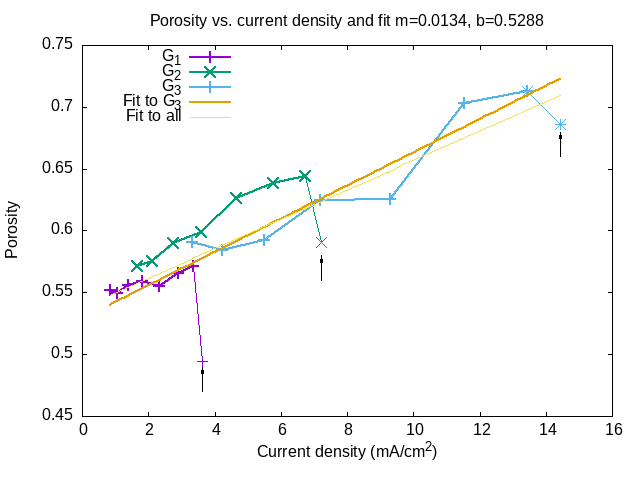
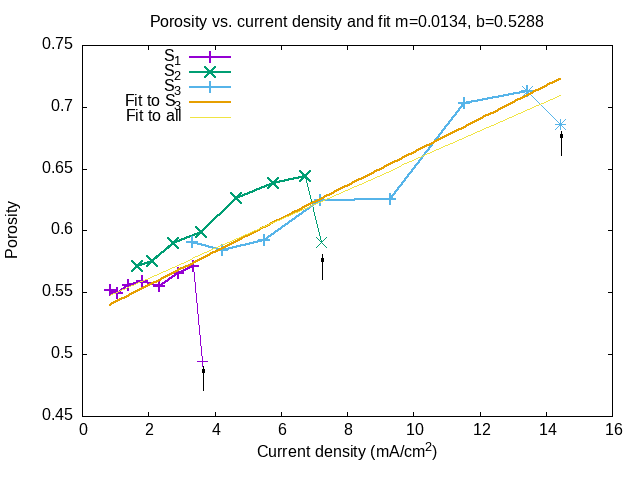
Change G_n->S_n in text and figures

diff --git a/paper.tex b/paper.tex
@@ -600,7 +600,7 @@ platinum wire with a diameter of $0.41\,\text{mm}$ insulated with
 teflon tape, with an uncovered
 tip located at $\bm r_0=(x_0,
 y_0,z_0)=(0.2\,\text{cm},0.74\,\text{cm},0.9\,\text{cm})$.
-We manufactured three samples $G_1$, $G_2$ and $G_3$ by applying a
+We manufactured three samples $S_1$, $S_2$ and $S_3$ by applying a
 current $I_1=5\,\text{mA}$, $I_2=10\,\text{mA}$ and
 $I_3=20\,\text{mA}$, respectively, during a time of $t=250s$.
 
@@ -687,7 +687,7 @@ the electrode.
 \begin{figure}
  \centering
  \includegraphics[width=\textwidth]{G3I20proc}
-  \caption{ Photograph of sample $G_3$ prepared as described in
+  \caption{ Photograph of sample $S_3$ prepared as described in
     Sec. \ref{sec:fabrication-ps-grin} using the same parameters as
     in Fig. \ref{fig:DR1} with a current $ I_3=20 \text{mA}$,
     during a time $t=250\text{s}$. We indicate the centerline with a
@@ -702,7 +702,7 @@ the electrode.
 \end{figure}
 
 In Fig. \ref{fig:SI3} we show a photograph of one of our samples,
-$G_3$
+$S_3$
 prepared as described in Sec. \ref{sec:fabrication-ps-grin}, with the
 same conditions as those corresponding to Fig.~\ref{fig:DR1} applying
 a current
@@ -752,7 +752,7 @@ Fig. \ref{fig:SI3}.
   \label{t:xj}
 \end{table}
 
-In Fig. \ref{fig:sem} we show some SEM images of the sample $G_3$,
+In Fig. \ref{fig:sem} we show some SEM images of the sample $S_3$,
 including top views and lateral views taken after
 the optical characterization was completed and the sample was cut
 along its centerline (see Sec. \ref{sec:R}) from
@@ -767,7 +767,7 @@ of the sample shown in Fig. \ref{fig:SI3}.
   \includegraphics[width=.3\textwidth]{seme}
   \includegraphics[width=.3\textwidth]{semf}
   \caption{Top ((a), (b), and (c)) and lateral ((d), (e), and (f)) SEM
-    micrographs of the sample $G_3$ taken from a region corresponding to the left
+    micrographs of the sample $S_3$ taken from a region corresponding to the left
     side ((a) and (d)), center ((b) and (e)), and right side ((c) and
     (f)) along the centerline shown in Fig. \ref{fig:SI3}.}
   \label{fig:sem}
@@ -790,7 +790,7 @@ the optical spectra, as explained below.
   \includegraphics[width=\textwidth]{R5vslambda}
   \caption{Reflectance spectra at different positions
     ($x'_n=0.2-1.6\,\text{cm}$, $y=0.74\,\text{cm}$)
-    on sample $G_1$ ($I_1=5\,\text{mA}$). We show
+    on sample $S_1$ ($I_1=5\,\text{mA}$). We show
   experimental results and results fitted through
   equations~\eqref{Eq:ECMR} and \eqref{Eq:Brugg}}.
   \label{fig:R5}
@@ -800,7 +800,7 @@ the optical spectra, as explained below.
   \includegraphics[width=\textwidth]{R10vslambda}
   \caption{Reflectance spectra at different positions
     ($x'_n=0.2-1.6\,\text{cm}$, $y=0.74\,\text{cm}$)
-    on sample $G_2$ ($I_1=10\,\text{mA}$). We show
+    on sample $S_2$ ($I_1=10\,\text{mA}$). We show
   experimental results and results fitted through
   equations~\eqref{Eq:ECMR} and \eqref{Eq:Brugg}}.
   \label{fig:R10}
@@ -811,7 +811,7 @@ the optical spectra, as explained below.
   \includegraphics[width=\textwidth]{R20vslambda}
   \caption{Reflectance spectra at different positions
     ($x'_n=0.2-1.6\,\text{cm}$, $y=0.74\,\text{cm}$)
-    on sample $G_3$ ($I_3=20\,\text{mA}$) (Fig. \ref{fig:SI3}),
+    on sample $S_3$ ($I_3=20\,\text{mA}$) (Fig. \ref{fig:SI3}),
     We show
     experimental results and results fitted through
     equations~\eqref{Eq:ECMR} and \eqref{Eq:Brugg}}.
@@ -819,8 +819,8 @@ the optical spectra, as explained below.
 \end{figure}
 
 We measured the reflectance spectra  at the positions indicated in
-Fig. \ref{fig:SI3} on our three samples $G_1$, $G_2$,
-and $G_3$, prepared using the same procedure
+Fig. \ref{fig:SI3} on our three samples $S_1$, $S_2$,
+and $S_3$, prepared using the same procedure
 (Sec. \ref{sec:fabrication-ps-grin}) but applying different currents
 $I_1=5\,\text{mA}$, $I_2=10\,\text{mA}$, and $I_3=20\,\text{mA}$. The results are shown in
 Figs. \ref{fig:R5}, \ref{fig:R10}, and \ref{fig:R20}.
@@ -856,7 +856,7 @@ showing that the calibration was adequate.
   $I$ (mA) &$x'_n$ (cm)&  $j$ ($\text{mA}/\text{cm}^2$) & $p$
        & $d$ ($\mu\text{m}$) & $s$ & $v$ (nm/s)\\
 \hline
-$G_1$/ 5 &0.2 & 3.61 & 0.494 & 0.340 & 0.849&  1.361 \\
+$S_1$/ 5 &0.2 & 3.61 & 0.494 & 0.340 & 0.849&  1.361 \\
          &0.4 & 3.36 & 0.571 & 0.390 & 0.979&  1.558  \\
          &0.6  & 2.88& 0.566 & 0.331 & 0.957&  1.325 \\
          &0.8 & 2.32 & 0.556 & 0.273 & 0.954&  1.093 \\
@@ -864,7 +864,7 @@ $G_1$/ 5 &0.2 & 3.61 & 0.494 & 0.340 & 0.849&  1.361 \\
          &1.2 & 1.37 & 0.556 & 0.189 & 0.973&  0.754 \\
          &1.4 & 1.06 & 0.549 & 0.151 & 0.961&  0.605 \\
          &1.6 & 0.83 & 0.552 & 0.124 & 0.990&  0.495 \\
-$G_2$/10 &0.2 & 7.22 & 0.591 & 0.635 & 0.856&  2.539 \\
+$S_2$/10 &0.2 & 7.22 & 0.591 & 0.635 & 0.856&  2.539 \\
          &0.4 & 6.72 & 0.644 & 0.693 & 0.991&  2.774 \\
          &0.6 & 5.77 & 0.638 & 0.591 & 0.952&  2.363 \\
          &0.8 & 4.64 & 0.626 & 0.533 & 0.980&  2.131 \\
@@ -872,7 +872,7 @@ $G_2$/10 &0.2 & 7.22 & 0.591 & 0.635 & 0.856&  2.539 \\
          &1.2 & 2.75 & 0.590 & 0.404 & 0.945&  1.618 \\
          &1.4 & 2.11 & 0.575 & 0.338 & 0.936&  1.351 \\
          &1.6 & 1.67 & 0.571 & 0.296 & 0.948&  1.183 \\
-$G_3$/20 &0.2 &14.45 & 0.686 & 1.204 & 1.149&  4.818 \\
+$S_3$/20 &0.2 &14.45 & 0.686 & 1.204 & 1.149&  4.818 \\
          &0.4 & 13.44 & 0.713 & 1.193 & 1.078&  4.772 \\
          &0.6 & 11.54 & 0.703 & 1.044 & 1.059&  4.177 \\
          &0.8 &  9.29 & 0.626 & 0.752 & 1.006&  3.006 \\
@@ -893,11 +893,11 @@ samples in Fig. \ref{fig:p}.
   \centering
   \includegraphics[width=\textwidth]{pvsj}
   \caption{Porosity as a function of current density for three samples
-    $G_1$, $G_2$, $G_3$. The data points for each sample are joined by
+    $S_1$, $S_2$, $S_3$. The data points for each sample are joined by
     thick lines. The arrows point to data that correspond to
     position $x'_1=0.2\,\text{cm}$, joined to the other data by thin
     lines (see text). We include linear fits to the data from
-    sample $G_3$ (thick straight line) and to that from all the
+    sample $S_3$ (thick straight line) and to that from all the
     samples (thin straight line). }
   \label{fig:p}
 \end{figure}
@@ -907,9 +907,9 @@ $x'_1$. As discussed in Sec. \ref{sec:ps-grin-single}, those points
 were very close to a wall of the electrolytic cell, so they were
 affected by leakage currents towards the underside of the wall.
 For this reason, we exclude those points from the following
-analysis. We made a linear fit to the data from sample $G_3$ and to
+analysis. We made a linear fit to the data from sample $S_3$ and to
 the data from the three samples. A comparison shows that a fit to the
-data of just one sample, $G_3$, turns out to be a reasonable predictor for the
+data of just one sample, $S_3$, turns out to be a reasonable predictor for the
 porosity of all the samples.  From that fit we obtain that for our
 preparation conditions
 \begin{equation}\label{eq:p}
@@ -928,11 +928,11 @@ samples in Fig. \ref{fig:v}.
   \centering
   \includegraphics[width=\textwidth]{vvsj}
   \caption{Etching rate as a function of current density for three samples
-    $G_1$, $G_2$, $G_3$. The data points for each sample are joined by
+    $S_1$, $S_2$, $S_3$. The data points for each sample are joined by
     thick lines. The arrows point to data that correspond to
     position $x'_1=0.2\,\text{cm}$, joined to the other data by thin
     lines (see text). We include linear fits to the data from
-    sample $G_3$ (thick straight line) and to that from all the
+    sample $S_3$ (thick straight line) and to that from all the
     samples (thin straight line). }
   \label{fig:v}
 \end{figure}
@@ -940,7 +940,7 @@ As for the porosity, there are outlier points corresponding to the
 immediate proximity of the wall of the cell, but the remaining points
 lie on straight lines for each sample, and they
 may all be approximated by a linear fit to the data of just one
-sample, $G_3$, from which we get
+sample, $S_3$, from which we get
 \begin{equation}\label{eq:v}
   v\approx 0.35\frac{\text{cm}^2}{\text{mA}}
   \frac{\text{nm}}{\text{s}}j_\perp + 0.092\frac{\text{nm}}{{s}}.
@@ -963,8 +963,8 @@ to our samples.
     current $j_\perp$ and wavelength $\lambda$ for an etching time
     $t=250\,\text{s}$. Theory (left panel) and experiment (right
     panel, see text). We indicate with the numbers 1, 2, 3 the
-    data corresponding to the corresponding samples $G_1$, $G_2$
-    (shifted, see text) and  $G_3$.}
+    data corresponding to the corresponding samples $S_1$, $S_2$
+    (shifted, see text) and  $S_3$.}
   \label{fig:Rvsjl}
 \end{figure}
 On the right hand side of the figure we display a quilt made by
@@ -973,7 +973,7 @@ Figs. \ref{fig:R5}- \ref{fig:R20}, ordered according to the
 corresponding current density as presented in Table
 \ref{t:jpdv}. Nevertheless, for the reasons mentioned above, we
 eliminated the data corresponding to position $x'_1$ on all
-samples. Furthermore, as the results corresponding to sample $G_2$ in
+samples. Furthermore, as the results corresponding to sample $S_2$ in
 Figs. \ref{fig:p} and  \ref{fig:v} seem shifted with respect to those
 of the other samples, in order to facilitate the visualization of the
 results, we artificially shifted horizontally towards the
